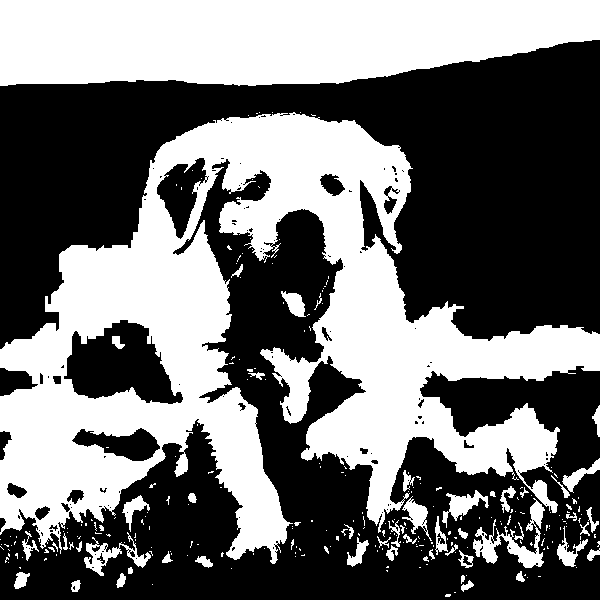
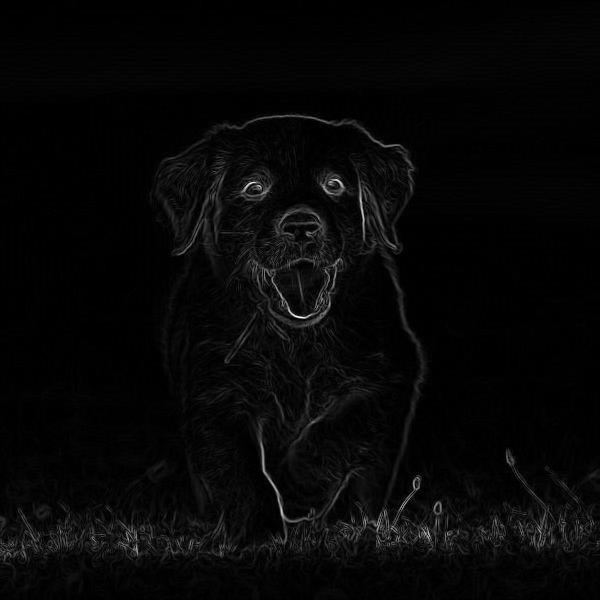
finish: sharpen image and detect edges

diff --git a/menu.py b/menu.py
@@ -183,6 +183,8 @@ class User:
         # Save binarized image
         self.set_img(binarized_img, self.get_img_URL())
 
+        success_message(f"Image '{self.get_img_URL()}' binarized successfully!", 1)
+
         # Output saved image
         self.save_image()
         press_enter_to_continue()
@@ -211,14 +213,157 @@ class User:
         self.save_image()
         press_enter_to_continue()
 
+    # * [FUNCTION: Transform] Blur images using kernel
     def blur_image(self):
-        pass
+        img = self.get_img()
 
+        # [ERROR] No image loaded
+        if img is None:
+            error_message("No image loaded to flip", 2)
+            return
+        
+        # Prompt user to enter blur radius
+        while True:
+            try:
+                input_blur_radius = int(input("Enter blur radius (max.: 25): ").strip())
+
+                # [ERROR] Out-of-range blur radius
+                if input_blur_radius < 1 or input_blur_radius > 25:
+                    error_message("Out of range, please enter a valid blur radius in px (1-25)", 2)
+                else: break
+                
+            except Exception as e:
+                error_message("Invalid input, please enter a valid blur radius in px (1-25)", 2)
+                return
+
+        # Convert image to matrix
+        matrix = np.array(img)
+
+        # Set kernel size and kernel
+        kernel_size = input_blur_radius * 2 + 1
+        kernel = np.ones((kernel_size, kernel_size)) / (kernel_size ** 2)
+        pad = input_blur_radius
+
+        # Pad image to prevent size shrinkage
+        padded = np.pad(matrix, ((pad, pad), (pad, pad), (0, 0)), mode='edge')
+        blurred = np.zeros_like(matrix)
+
+        # Convolution (slow but educational)
+        for y in range(matrix.shape[0]):
+            for x in range(matrix.shape[1]):
+                for c in range(matrix.shape[2]):
+                    region = padded[y:y+kernel_size, x:x+kernel_size, c]
+                    blurred[y, x, c] = np.sum(region * kernel)
+
+        # Update current image
+        blurred_img = Image.fromarray(blurred.astype(np.uint8))
+
+        # Save blurred image
+        self.set_img(blurred_img, self.get_img_URL())
+
+        success_message(f"Image '{self.get_img_URL()}' blurred successfully!", 1)
+
+        # Output saved image
+        self.save_image()
+        press_enter_to_continue()
+
+    # * [FUNCTION: Transform] Sharpen image
     def sharpen_image(self):
-        pass
+        img = self.get_img()
 
+        # [ERROR] No image loaded
+        if img is None:
+            error_message("No image loaded to sharpen", 2)
+            return
+
+        # Convert image to numpy array
+        matrix = np.array(img, dtype=np.float32)
+
+        # Define sharpening kernel
+        kernel = np.array([
+            [0, -1, 0],
+            [-1, 5, -1],
+            [0, -1, 0]
+        ], dtype=np.float32)
+
+        # Padding to avoid border shrinkage
+        pad = 1
+        padded = np.pad(matrix, ((pad, pad), (pad, pad), (0, 0)), mode='edge')
+        sharpened = np.zeros_like(matrix)
+
+        # Convolution
+        for y in range(matrix.shape[0]):
+            for x in range(matrix.shape[1]):
+                for c in range(matrix.shape[2]):
+                    region = padded[y:y+3, x:x+3, c]
+                    sharpened[y, x, c] = np.sum(region * kernel)
+
+        # Clip values to 0–255 and convert back to uint8
+        sharpened = np.clip(sharpened, 0, 255)
+        sharpened_img = Image.fromarray(sharpened.astype(np.uint8))
+
+        # Save sharpened image
+        self.set_img(sharpened_img, self.get_img_URL())
+        
+        success_message(f"Image '{self.get_img_URL()}' sharpened successfully!", 1)
+
+        # Output saved image
+        self.save_image()
+        press_enter_to_continue()
+
+    # * [FUNCTION: Transform] Detect image edges
     def edge_detect(self):
-        pass
+        img = self.get_img()
+
+        # [ERROR] No image loaded
+        if img is None:
+            error_message("No image loaded to detect edges", 2)
+            return
+
+        # Convert image to grayscale for edge detection
+        gray = np.array(img.convert('L'), dtype=np.float32)
+
+        # Sobel kernels
+        Kx = np.array([
+            [-1, 0, 1],
+            [-2, 0, 2],
+            [-1, 0, 1]
+        ], dtype=np.float32)
+
+        Ky = np.array([
+            [-1, -2, -1],
+            [0,  0,  0],
+            [1,  2,  1]
+        ], dtype=np.float32)
+
+        # Padding
+        pad = 1
+        padded = np.pad(gray, ((pad, pad), (pad, pad)), mode='edge')
+        Gx = np.zeros_like(gray)
+        Gy = np.zeros_like(gray)
+
+        # Convolution
+        for y in range(gray.shape[0]):
+            for x in range(gray.shape[1]):
+                region = padded[y:y+3, x:x+3]
+                Gx[y, x] = np.sum(region * Kx)
+                Gy[y, x] = np.sum(region * Ky)
+
+        # Compute edge magnitude
+        edges = np.sqrt(Gx**2 + Gy**2)
+
+        # Normalize to 0–255
+        edges = np.clip(edges / edges.max() * 255, 0, 255)
+        edges_img = Image.fromarray(edges.astype(np.uint8))
+
+        # Save edge-detected image
+        self.set_img(edges_img, self.get_img_URL())
+
+        success_message(f"Edges detected for '{self.get_img_URL()}' successfully!", 1)
+
+        # Output saved image
+        self.save_image()
+        press_enter_to_continue()
 
     # * [FUNCTION: Transform] Convert image to 1D vector
     def flatten_image(self):
@@ -234,20 +379,20 @@ class User:
         flattened_matrix = matrix.flatten()
         
         # Update current image
-        normalized_img = Image.fromarray(flattened_matrix)
+        flattened_img = Image.fromarray(flattened_matrix)
 
         # Save flattened image
-        self.set_img(normalized_img, self.get_img_URL())
+        self.set_img(flattened_img, self.get_img_URL())
 
         # Save flattened matrix (for machine learning)
         np.save(f"{self.get_img_URL()}_flattened.npy", flattened_matrix)
         success_message(f"Flattened matrix saved as {self.get_img_URL()}.npy", 1)
 
         reshaped_matrix = flattened_matrix.reshape(matrix.shape)
-        display_img = Image.fromarray(reshaped_matrix)
+        flattened_img = Image.fromarray(reshaped_matrix)
 
         # Save converted image from flattened 1D vector
-        self.set_img(normalized_img, self.get_img_URL())
+        self.set_img(flattened_img, self.get_img_URL())
 
         # Output saved image
         self.save_image()
